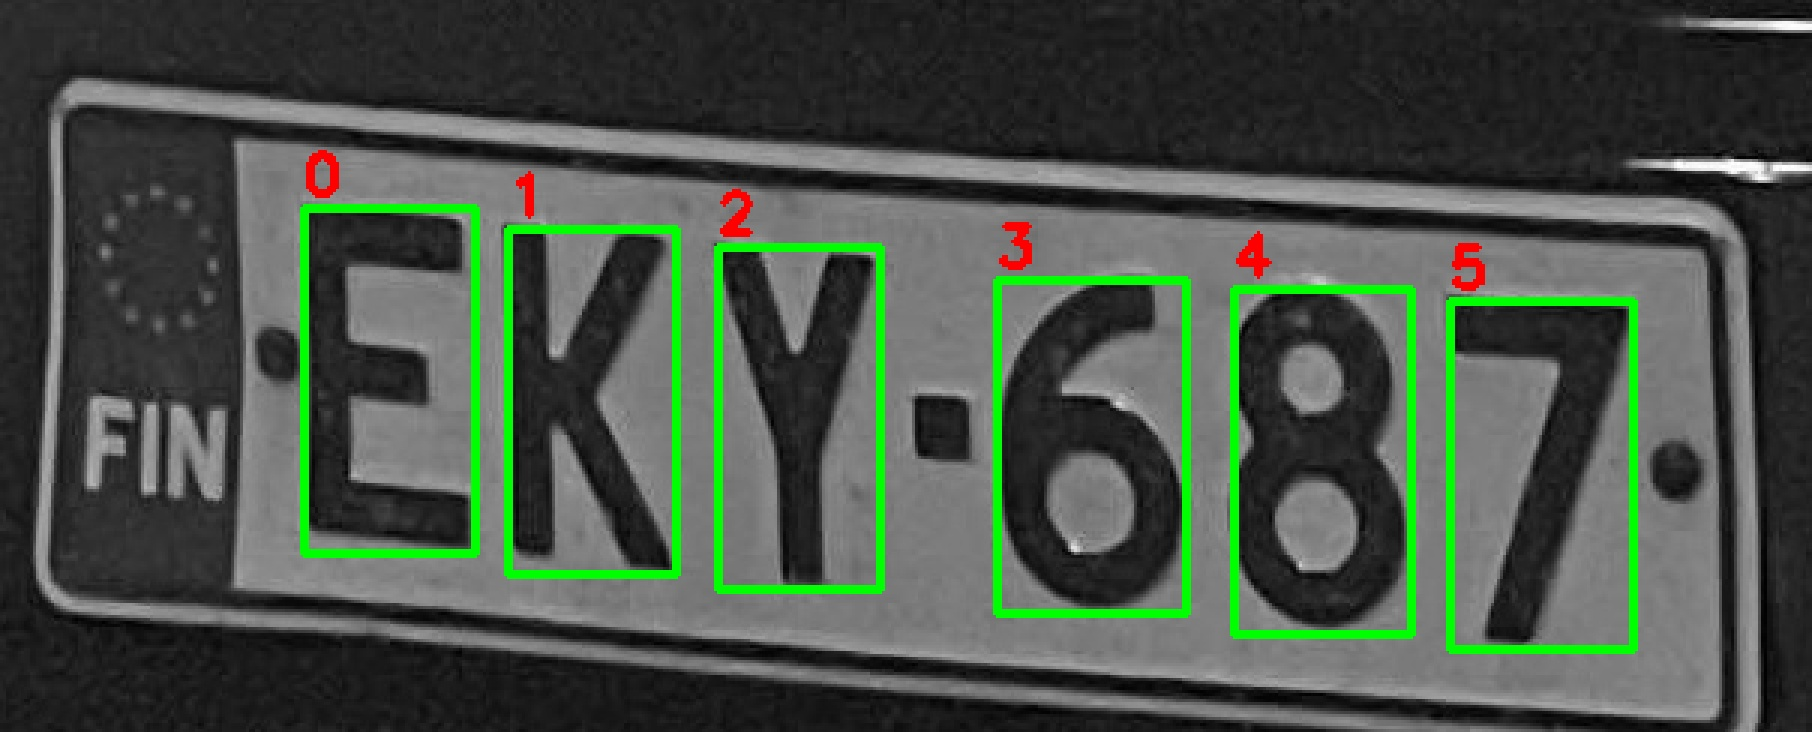
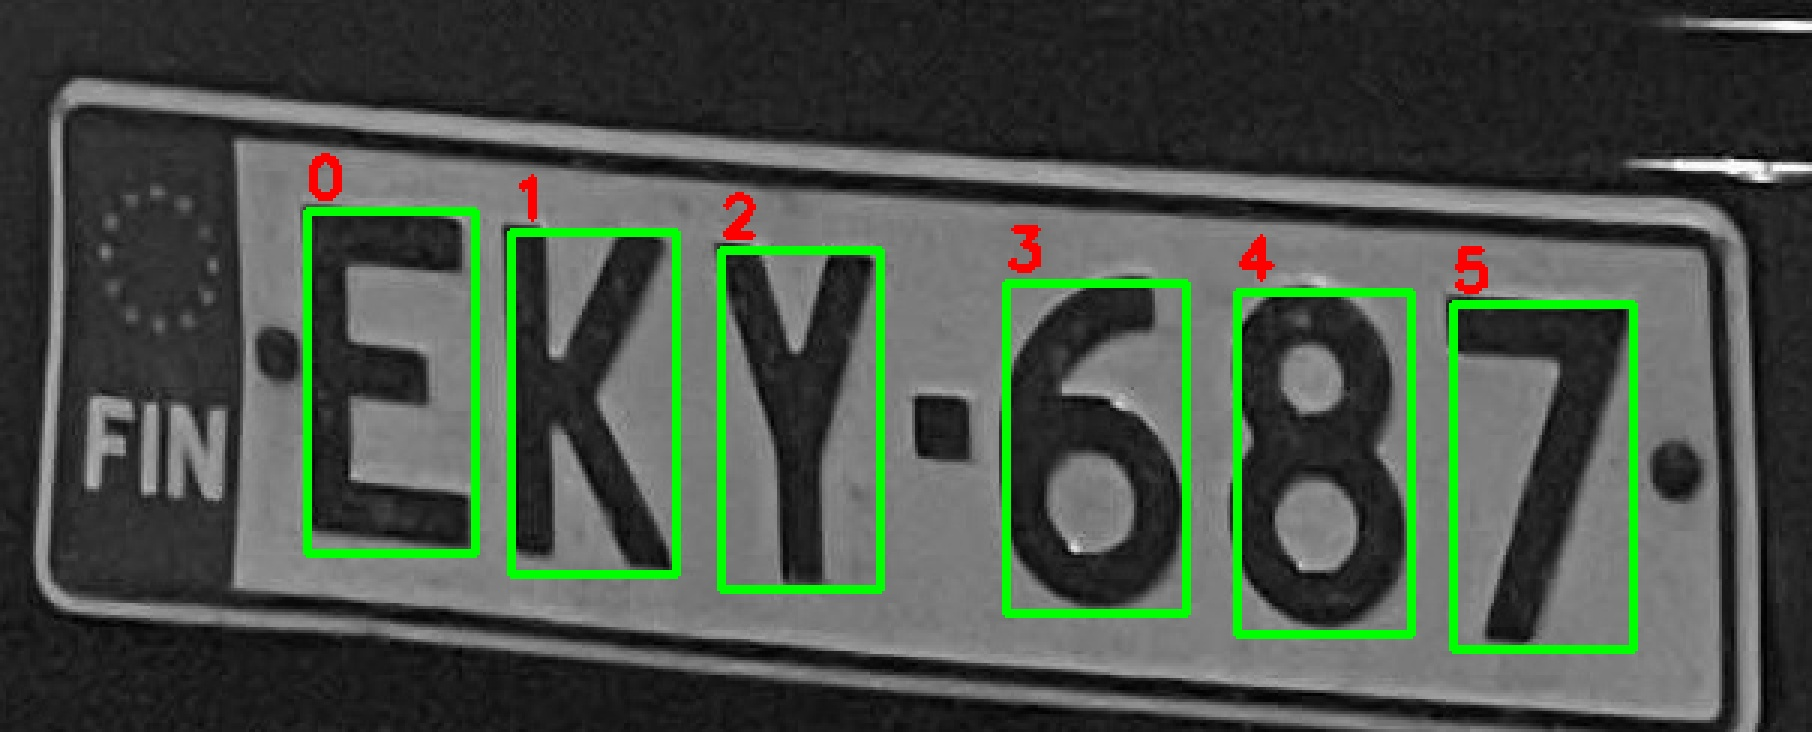
better cropping

Changed region(s): [[0.1545, 0.2104, 0.4945, 0.8115], [0.6799, 0.3306, 0.8962, 0.8716], [0.5254, 0.3005, 0.649, 0.8415]]

diff --git a/Notes/deprecadedStuff/preprocessDEPRECADED.py b/Notes/deprecadedStuff/preprocessDEPRECADED.py
@@ -77,12 +77,12 @@ def thresholded_2_segmented_letters(filename, sessionPath):
     result_data = "\n#########################\n"
 
     result_data += "\nRelative plate size: " + str(plate_h) + "x" + str(plate_w)
-    kernel = np.ones((2,2), np.uint8)
+    kernel = np.ones((3,3), np.uint8)
     
     cleaned = cv2.morphologyEx(thimg, cv2.MORPH_OPEN, kernel)
-    cleaned = cv2.erode(cleaned, kernel, iterations=1)
-    # cv2.imshow("m", cleaned)
-    # cv2.waitKey(0)
+    cleaned = cv2.erode(cleaned, np.ones((1,2), np.uint8), iterations=1)
+    cv2.imshow("m", cleaned)
+    cv2.waitKey(0)
     # DEPRECATED
     # eroded = cv2.erode(cleaned, kernel)
     # cleaned = cv2.morphologyEx(cleaned, cv2.MORPH_CLOSE, kernel)
@@ -91,7 +91,7 @@ def thresholded_2_segmented_letters(filename, sessionPath):
     # cv2.imshow("t", cleaned)
     # cv2.waitKey(0)
 
-    cnts = cv2.findContours(cleaned, cv2.RETR_TREE, cv2.CHAIN_APPROX_SIMPLE)
+    cnts = cv2.findContours(cleaned, cv2.RETR_EXTERNAL, cv2.CHAIN_APPROX_SIMPLE)
     cnts = cnts[0] if len(cnts) == 2 else cnts[1]
 
     if not cnts:
@@ -146,7 +146,7 @@ def segment_and_file_letters(sessionPath, contours):
     
     index = 1
     for x, y, w, h in contours:
-        character = cropped[y-3:y + h, x-3:x + w]
+        character = cropped[y:y + h, x:x + w]
         cv2.imwrite(os.path.join(sessionPath, "characters", f"{index}.jpg"), character)
         index += 1
     

diff --git a/tests/contourdebugging.py b/tests/contourdebugging.py
@@ -3,14 +3,14 @@ import os
 import sys
 
 project_root = os.path.dirname(os.path.dirname(os.path.abspath(__file__)))
-os.chdir(project_root)
+os.chdir(project_root) 
 sys.path.insert(0, project_root)
 
 from src.preprocessing.preprocessing import thresholded_2_segmented_letters
 
 def show_contours_debug():
-    session = "data/inference/sessions/6/"
-    rects = thresholded_2_segmented_letters(
+    session = "data/inference/sessions/3/"
+    rects, _ = thresholded_2_segmented_letters(
         f"{session}thresholded.jpg",session
     )
 

diff --git a/ui/ui.py b/ui/ui.py
@@ -15,6 +15,14 @@ sys.path.insert(0, project_root)
 from src.pipeline import processImage
 from src.utils.filer import make_new_session
 
+st.markdown("""
+    <style>
+        img {
+            border-radius: 0 !important;
+        }
+    </style>
+""", unsafe_allow_html=True)
+
 
 st.title("ALPR")
 
